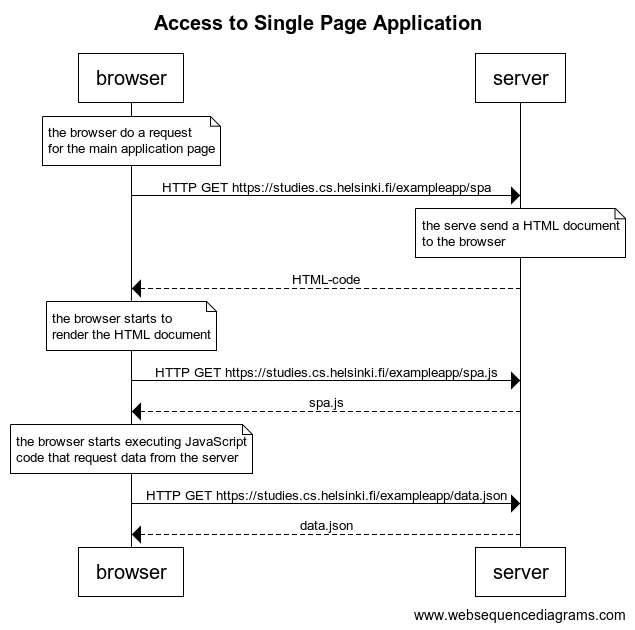
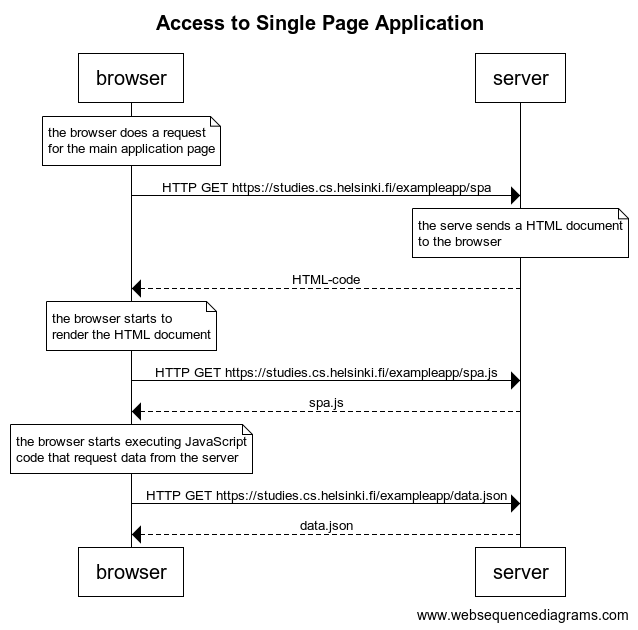
Updated exercises

diff --git a/part0/04-newNote/readme.md b/part0/04-newNote/readme.md
@@ -20,14 +20,14 @@ Code to generate diagram:
 title Creating new note
 
 note over browser:
-the browser send
+the browser sends
 the data to the server
 end note
 
 browser->server: HTTP POST https://studies.cs.helsinki.fi/exampleapp/new_note
 
 note over browser:
-The browser do a 
+The browser does a 
 request to the server
 to get all notes
 end note
@@ -35,7 +35,7 @@ end note
 browser->server: HTTP GET https://studies.cs.helsinki.fi/exampleapp/notes
 
 note over server:
-the server send a 
+the server sends a 
 HTML document to 
 the browser
 end note
@@ -43,7 +43,7 @@ end note
 server-->browser: HTML-code
 
 note over browser:
-the browser render the HTML document
+the browser renders the HTML document
 received and does requests 
 to get all the needed dependencies
 end note
@@ -61,7 +61,6 @@ end note
 
 browser->server: HTTP GET https://studies.cs.helsinki.fi/exampleapp/data.json
 server-->browser: data.json
-
 ```
 
 Diagram:

diff --git a/part0/05-spa/readme.md b/part0/05-spa/readme.md
@@ -12,14 +12,14 @@ Code to generate diagram:
 title Access to Single Page Application
 
 note over browser:
-the browser do a request
+the browser does a request
 for the main application page
 end note
 
 browser->server: HTTP GET https://studies.cs.helsinki.fi/exampleapp/spa
 
 note over server:
-the serve send a HTML document
+the serve sends a HTML document
 to the browser
 end note
 

diff --git a/part0/06-newNote/readme.md b/part0/06-newNote/readme.md
@@ -12,7 +12,7 @@ Code to generate diagram:
 title Creatin a new note in a Single Page Application
 
 note over browser:
-the browser send 
+the browser sends 
 the data to the server
 end note
 
